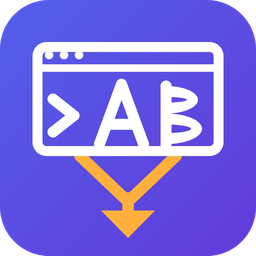
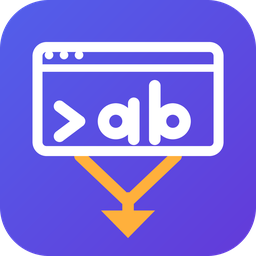
feat(brand): use the original lowercase ab letterforms inside the terminal
The capitals were mine; the lowercase is the product's. Measured off the original
mark rather than approximated — x-height 270, stroke 66 (0.24 of the x-height,
considerably bolder than a normal geometric sans, and the reason the original
reads as friendly rather than technical), b-ascender 1.37x, letter gap 0.20x —
then scaled to fit the terminal window at those exact ratios.

Both letters are as wide as the x-height: `a` is a full circle with a stem flush
to its right edge, `b` a stem with a circle flush to its left. That construction
is also simpler in SVG than the capitals were — plain circles with a stroke,
rather than clipped elliptical arcs.

Worth recording why `ab` works here having failed on its own: a bare wordmark
filling the tile read as "alo", because nothing anchored which letters they were.
Inside a terminal with a `>` in front, the same forms read as a COMMAND, and the
ambiguity disappears. The container did the work, not the letterforms.

All platform icons regenerated; the Linux/MSIX asset hashes identical to the
brand master. 572 tests, analyze and format clean, SVG well-formed.

Changed region(s): [[0.3438, 0.2812, 0.8125, 0.5938], [0.1875, 0.3438, 0.3438, 0.5625]]

diff --git a/docs/brand/render-icon.py b/docs/brand/render-icon.py
@@ -66,14 +66,19 @@ TITLE_W = 30
 DOTS = ((196, 220), (256, 220), (316, 220))
 DOT_R = 17
 
-GLYPH_TOP = 344
-GLYPH_H = 232
-GLYPH_W = 44                 # ~h/5.3: heavy enough to hold at 32px, light enough to
-                             # leave the B's counters open
-PROMPT = ((212, 396), (296, 462), (212, 528))   # the > chevron
-A_CX = 486
-A_SPREAD = 0.38              # cap A is wide; this keeps it from crowding B
-B_SX = 664
+# Lowercase "ab", measured off the original mark rather than invented:
+#   x-height 270, stroke ~66 (0.24 of x-height — considerably bolder than a normal
+#   geometric sans, and the reason the original reads as friendly rather than technical),
+#   b-ascender 1.37x the x-height, letter gap 0.20x. Both letters are as wide as the
+#   x-height: a circle with a stem flush to its right edge, and a stem with a circle
+#   flush to its left.
+BASELINE = 580
+X_HEIGHT = 190
+ASCENDER = 260               # 1.37 x the x-height, per the original
+GLYPH_W = 46                 # 0.24 x the x-height
+A_X = 368                    # left edge of the a
+B_X = 596                    # left edge of the b's stem
+PROMPT = ((238, 425), (318, 485), (238, 545))   # the > chevron, centred on the x-height
 
 BRANCH_W = 46
 BRANCH_L = 190               # inset from each window edge — a long diagonal keeps the
@@ -96,31 +101,23 @@ def _stroke(md, pts, w, col=255):
 
 
 def _glyph_a(md):
-    hw = GLYPH_H * A_SPREAD
-    top, h, w = GLYPH_TOP, GLYPH_H, GLYPH_W
-    # A pointed apex reads lighter than a flat one at the same weight, so it overshoots
-    # slightly to look optically level with the B.
-    _stroke(md, [(A_CX - hw, top + h), (A_CX, top - w * 0.16)], w)
-    _stroke(md, [(A_CX + hw, top + h), (A_CX, top - w * 0.16)], w)
-    _stroke(md, [(A_CX - hw * 0.54, top + h * 0.66), (A_CX + hw * 0.54, top + h * 0.66)], w)
+    """Single-storey geometric a: a full circle with a stem flush to its right edge."""
+    w, x = GLYPH_W, X_HEIGHT
+    cx, cy = A_X + x / 2, BASELINE - x / 2
+    r = x / 2 - w / 2                       # stroke centreline
+    md.ellipse(k(cx - r, cy - r, cx + r, cy + r), outline=255, width=int(w) * SS)
+    md.rounded_rectangle(k(A_X + x - w, BASELINE - x, A_X + x, BASELINE),
+                         radius=int(w / 2) * SS, fill=255)
 
 
-def _glyph_b(mask):
-    md = ImageDraw.Draw(mask)
-    top, h, w, sx = GLYPH_TOP, GLYPH_H, GLYPH_W, B_SX
-    _stroke(md, [(sx, top), (sx, top + h)], w)
-    split = top + h * 0.475
-    # Lower bowl slightly WIDER than the upper — without it a B looks top-heavy in a
-    # way people notice but cannot name. Bowls are elliptical, not rounded rectangles;
-    # flat-sided bowls are what made an earlier attempt read as a "3".
-    for (y0, y1, bw) in ((top, split, h * 0.55), (split, top + h, h * 0.62)):
-        ring = Image.new('L', (N, N), 0)
-        rd = ImageDraw.Draw(ring)
-        rd.ellipse(k(sx - bw, y0, sx + bw, y1), fill=255)
-        rd.ellipse(k(sx - bw + w, y0 + w, sx + bw - w, y1 - w), fill=0)
-        half = Image.new('L', (N, N), 0)
-        ImageDraw.Draw(half).rectangle(k(sx, 0, S, S), fill=255)
-        mask.paste(255, (0, 0), Image.composite(ring, Image.new('L', (N, N), 0), half))
+def _glyph_b(md):
+    """b: ascending stem with a full circle flush to its right."""
+    w, x = GLYPH_W, X_HEIGHT
+    md.rounded_rectangle(k(B_X, BASELINE - ASCENDER, B_X + w, BASELINE),
+                         radius=int(w / 2) * SS, fill=255)
+    cx, cy = B_X + x / 2, BASELINE - x / 2
+    r = x / 2 - w / 2
+    md.ellipse(k(cx - r, cy - r, cx + r, cy + r), outline=255, width=int(w) * SS)
 
 
 def render_png(path: pathlib.Path) -> None:
@@ -148,7 +145,7 @@ def render_png(path: pathlib.Path) -> None:
     _stroke(idr, [PROMPT[0], PROMPT[1]], GLYPH_W)
     _stroke(idr, [PROMPT[1], PROMPT[2]], GLYPH_W)
     _glyph_a(idr)
-    _glyph_b(ink)
+    _glyph_b(idr)
 
     amber = Image.new('L', (N, N), 0)
     ad = ImageDraw.Draw(amber)
@@ -174,27 +171,23 @@ def _hex(c):
 
 def render_svg(path: pathlib.Path) -> None:
     x0, y0, x1, y1 = WIN
-    hw = GLYPH_H * A_SPREAD
-    top, h, w, sx = GLYPH_TOP, GLYPH_H, GLYPH_W, B_SX
-    split = top + h * 0.475
-    over = w * 0.16
-
-    def bowl(ya, yb, bw):
-        """Right half of an elliptical ring, as a STROKED arc on its centreline."""
-        rx = bw - w / 2
-        ry = (yb - ya) / 2 - w / 2
-        return (f'<path d="M{sx},{ya + w / 2:.1f} A{rx:.1f},{ry:.1f} 0 0 1 {sx},{yb - w / 2:.1f}" '
-                f'fill="none" stroke-width="{w}"/>')
+    w, x = GLYPH_W, X_HEIGHT
+    r = x / 2 - w / 2                      # bowl stroke centreline
+    a_cx, a_cy = A_X + x / 2, BASELINE - x / 2
+    b_cx, b_cy = B_X + x / 2, BASELINE - x / 2
 
     svg = f'''<svg xmlns="http://www.w3.org/2000/svg" viewBox="0 0 {S} {S}" width="{S}" height="{S}"
      role="img" aria-label="abcli">
   <title>abcli</title>
   <!-- GENERATED by docs/brand/render-icon.py — edit the constants there, not this file.
 
-       A terminal window running `> AB`, with two branches leaving the window and merging
+       A terminal window running `> ab`, with two branches leaving the window and merging
        into one arrow: what the product is (a CLI, and a GUI that drives one) and what it
-       does (reconciles two states into one). AB is Apple Business, and also the two things
-       being merged — declared and live. -->
+       does (reconciles two states into one). ab is Apple Business, and also the two things
+       being merged — declared and live.
+
+       The letterforms are measured off the original abgui mark, not invented: heavy
+       geometric lowercase, stroke 0.24 of the x-height, b-ascender 1.37x. -->
   <defs>
     <linearGradient id="ground" x1="0" y1="0" x2="1" y2="1">
       <stop offset="0" stop-color="{_hex(GROUND_TOP)}"/>
@@ -228,15 +221,15 @@ def render_svg(path: pathlib.Path) -> None:
       <path d="M{PROMPT[0][0]},{PROMPT[0][1]} L{PROMPT[1][0]},{PROMPT[1][1]} L{PROMPT[2][0]},{PROMPT[2][1]}"
             stroke-width="{w}"/>
 
-      <!-- A — apex overshoots slightly so it reads optically level with the B -->
-      <path d="M{A_CX - hw:.1f},{top + h} L{A_CX},{top - over:.1f} L{A_CX + hw:.1f},{top + h}"
-            stroke-width="{w}"/>
-      <path d="M{A_CX - hw * 0.54:.1f},{top + h * 0.66:.1f} H{A_CX + hw * 0.54:.1f}" stroke-width="{w}"/>
+      <!-- a — a full circle with a stem flush to its right edge -->
+      <circle cx="{a_cx}" cy="{a_cy}" r="{r}" stroke-width="{w}"/>
+      <rect x="{A_X + x - w}" y="{BASELINE - x}" width="{w}" height="{x}"
+            rx="{w / 2}" fill="{_hex(INK)}" stroke="none"/>
 
-      <!-- B — stem plus two elliptical bowls, the lower slightly wider -->
-      <path d="M{sx},{top} V{top + h}" stroke-width="{w}"/>
-      {bowl(top, split, h * 0.55)}
-      {bowl(split, top + h, h * 0.62)}
+      <!-- b — ascending stem with a full circle flush to its right -->
+      <rect x="{B_X}" y="{BASELINE - ASCENDER}" width="{w}" height="{ASCENDER}"
+            rx="{w / 2}" fill="{_hex(INK)}" stroke="none"/>
+      <circle cx="{b_cx}" cy="{b_cy}" r="{r}" stroke-width="{w}"/>
     </g>
 
     <!-- title-bar dots, in ink: the title bar is a RULE, not a filled bar, so knocking

diff --git a/docs/brand/README.md b/docs/brand/README.md
@@ -7,10 +7,12 @@
 
 The `abcli` suite mark, used by **abctl** and **abgui** alike.
 
-A terminal window running `> AB`, with two branches leaving the window and merging into one
+A terminal window running `> ab`, with two branches leaving the window and merging into one
 arrow. It says what the product is — a CLI, and a GUI that drives one — and what it does:
-reconciles two states into one. `AB` is Apple Business, and it is also the two things being
-merged, declared and live.
+reconciles two states into one. `ab` is Apple Business, and it is also the two things being
+merged, declared and live. The letterforms and the indigo-violet ground are carried over from
+the original abgui mark — measured off it, not approximated — because that is what people
+already recognise the product by.
 
 ## Regenerating
 
@@ -50,9 +52,14 @@ asymmetry is the first thing to check.
   dependency and the mark cannot silently rasterise in a fallback typeface.
 - **Keep the merge V open.** Branch origins too close together fuse into a solid wedge below
   ~32 px and stop reading as a merge. The long diagonal run is load-bearing, not styling.
-- **The lower bowl of the `B` is wider than the upper.** Without it the letter looks top-heavy
-  in a way people notice but cannot name.
+- **The letterforms are measured, not drawn by eye.** From the original mark: x-height 270,
+  stroke 66 (0.24 of the x-height — much bolder than a normal geometric sans, and the reason it
+  reads as friendly rather than technical), b-ascender 1.37x, letter gap 0.20x. Keep those ratios
+  if the size changes.
 
-Rejected directions, recorded so they are not retried: an `ab` lowercase wordmark (read as
-"alo"), and an apple silhouette (a leaf plus a top notch reads as an animal head — and fruit on
-a product that manages Apple Business Manager is the highest-risk place to put it).
+Rejected directions, recorded so they are not retried: a bare `ab` wordmark filling the tile
+(the two letters read as "alo" with nothing around them to anchor the reading — inside the
+terminal, with a `>` in front, they read as a command and the ambiguity disappears); an apple
+silhouette (a leaf plus a top notch reads as an animal head, and fruit on a product that manages
+Apple Business Manager is the highest-risk place to put it); and letters standing beside an
+arrow, which reads as clip-art because the branches have to LEAVE something.
